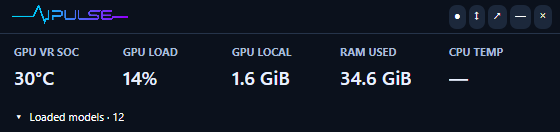
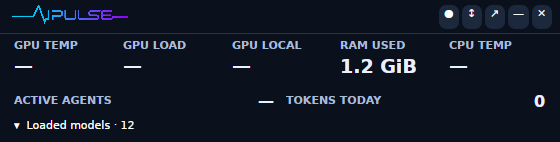
Bundle updated compact and resource-monitoring screenshots

diff --git a/docs/USER-GUIDE.md b/docs/USER-GUIDE.md
@@ -44,6 +44,8 @@ The headline cards show GPU load, GPU core temperature availability, system memo
 
 ![Hardware capacity and live usage](images/hardware-live.png)
 
+The Ubuntu test desktop shown here has no exposed GPU. The page scrolls to storage and network measurements below.
+
 Hardware pairs **capacity with current consumption**: total-host CPU utilization and logical processor count, GPU utilization, RAM used/total/available, local GPU memory allocated/capacity and shared GPU memory allocated/limit. GPU memory limits are OS/driver-reported; unavailable capacities show a dash. Shared and unified GPU memory overlap system RAM and must not be added to physical RAM usage.
 
 Storage shows capacity, used space, available space and percent used for each fixed volume. Available space respects the current user's quota, so used plus available need not equal total capacity. Connected adapters appear by default; search includes disconnected adapters. Network adapters show connection status, link capacity in Mbps and current download/upload in MiB/s. Link capacity is the negotiated adapter speed, not a measured internet speed. Disconnected or warming-up counters show a dash.
@@ -76,7 +78,7 @@ Recent observed requests display input/output counts, decode rate, elapsed durat
 
 CPU is a percentage of the entire host, sampled about every six seconds. New processes show **Warming up** until there are two samples; samples older than 15 seconds show unavailable. Memory sums working sets, which can share pages. These are **local app totals shared across sessions**, not per-conversation allocations or remote/cloud server usage. Per-session CPU/RAM and per-process GPU allocation are not exposed. Process identity is discovered from standard executable names and readable parent relationships; custom wrappers without a named app ancestor and protected processes may be missing. No command-line arguments or prompt text are collected. App CPU/memory/count metrics follow the normal history retention; per-PID details remain live only.
 
-The screenshot above uses an explicitly synthetic process fixture to demonstrate totals and expandable details; it is not measured model performance.
+The Ubuntu screenshot above uses an explicitly synthetic process fixture to demonstrate totals and expandable details; it is not measured model performance.
 
 Search by source, model, session ID or recorded status. Search covers all sessions in the configured retention window before displaying the newest 100 matches.
 

diff --git a/docs/DEVELOPMENT.md b/docs/DEVELOPMENT.md
@@ -59,8 +59,10 @@ For UI captures, `--capture` saves the rendered window after startup. `--expande
 
 The GitHub workflow builds packages and runs Linux tests; virtual graphics do not validate native GPU telemetry. Runtime/provider adapters are expected to need maintenance when driver or source-app formats change.
 
-## UI regression checks (0.2.0)
+## UI regression checks (0.2.1)
 
 `--ui-test --data-dir <isolated test folder>` runs real Avalonia controls and saves screenshots/results. Never point it at your personal data directory: it changes test settings. `tests/ui_fixture.py` provides 12 explicitly synthetic Ollama models on loopback port 11436. Configure the isolated app's `OllamaUrl` accordingly and add `--expect-models 12` to verify discovery, every model row, bounded scrolling and scroll preservation. This is a UI/protocol simulation, not a model-performance benchmark.
 
 Both platform CI jobs run the checks. They also cover both compact orientations, restored full-size header, Maximize/Restore, returning from maximized to compact, preserving the active header during input, sidebar collapse/expand, search focus across refresh, independent tab searches, empty results and the one-year history selector. Native pointer dragging and blank-header double-click are separately checked on Windows. Real Ollama inference uses the separate smoke test. Start with a fresh test settings file; the UI checks intentionally finish with 365-day retention.
+
+Agent resource checks cover process-tree ownership, descendants beyond the top-25 table, shared working sets, first-sample CPU, PID reuse and stale UI data. Windows tests wait for the synthetic Ollama endpoint to be ready; the UI harness also waits for model discovery rather than assuming a fixed startup time.
